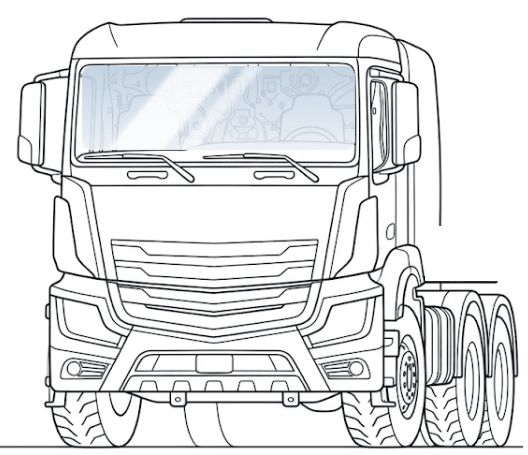
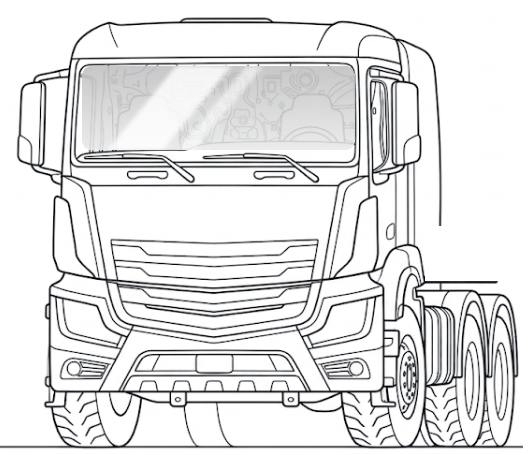
조회: 아우트리거 인출량 눈금 조정 · 트럭 유리 음영 회색으로
- 50% 위치는 그대로, 100% 위치를 기존 85% 지점으로 (0%가 트럭 옆면) — MAX 인출이 과해 보이던 것 수정
- 50% · 100% 눈금 글자 조금 작게 (가까워진 두 글자가 붙지 않게)
- 트럭 앞유리 빛 반사 음영: 파란 계열 → 무채색 회색

Changed region(s): [[0.4848, 0.1231, 0.6667, 0.1846], [0.1515, 0.1231, 0.3333, 0.1846], [0.4242, 0.1231, 0.4545, 0.1846]]

diff --git a/app/ui/outrigger-pic.js b/app/ui/outrigger-pic.js
@@ -19,8 +19,10 @@ export function outriggerPicture(pct) {
   const all = pct === 'all';
   const p = all ? 0.3 : Math.max(0.2, Math.min(1, Number(pct) || 0));
   const G = 487;                 // ground line of the drawing
-  const X0 = 438;                // where 0 % would be: 50 % → x 595, 100 % → x 752
-  const L = 314;
+  // extension scale: 50 % stays at x 595, 100 % sits at x 705 (where 85 % used to be), so 0 % lands
+  // right at the truck's side
+  const X0 = 485;
+  const L = 220;
   const xr = 477;                // the beam comes out from behind the cab here
   const xj = Math.max(X0 + L * p, 520);
   const jw = 40;                 // jack housing
@@ -41,7 +43,7 @@ export function outriggerPicture(pct) {
   for (const [frac, lab] of [[0.5, '50%'], [1, '100%']]) {
     const x = X0 + L * frac;
     P(line(x, 236, x, G + 8), null, '#C2CBD5', 3, ' stroke-dasharray="12 10"');
-    out.push(`<text x="${x}" y="${G + 52}" font-size="38" font-weight="800" fill="#8C97A3" text-anchor="middle">${lab}</text>`);
+    out.push(`<text x="${x}" y="${G + 52}" font-size="32" font-weight="800" fill="#8C97A3" text-anchor="middle">${lab}</text>`);
   }
   // ghost of the fully extended outrigger
   if (xj < X0 + L - 2) {
